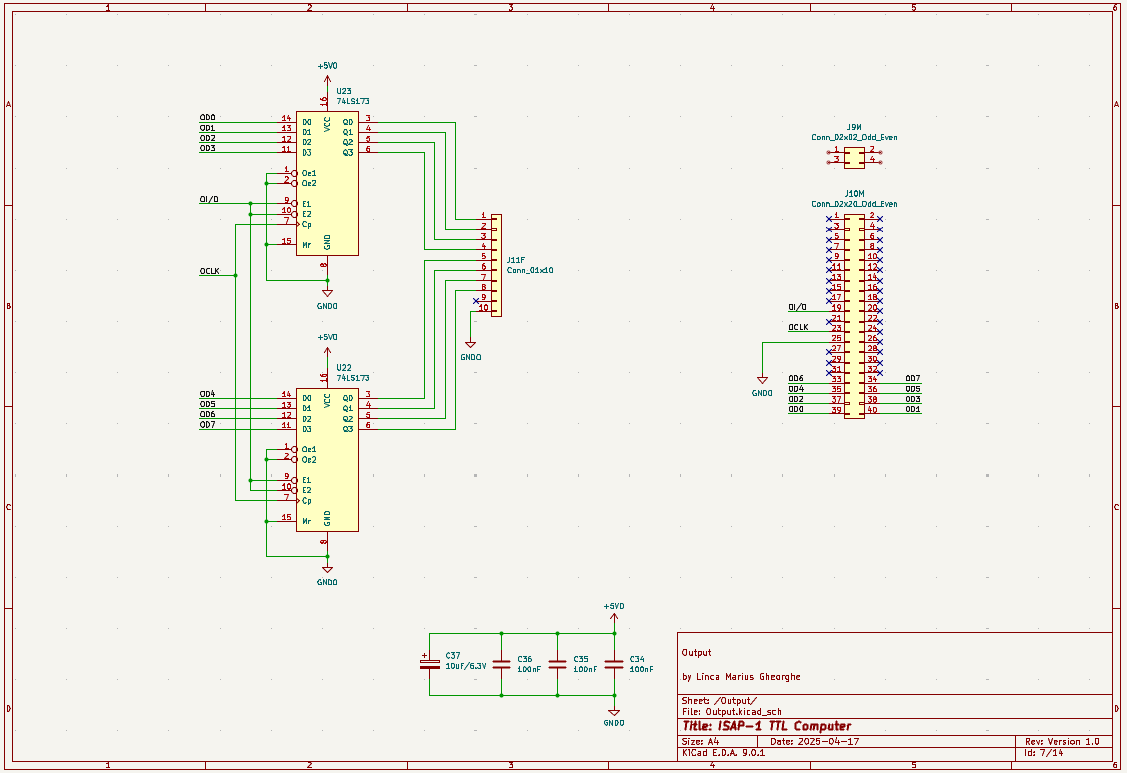
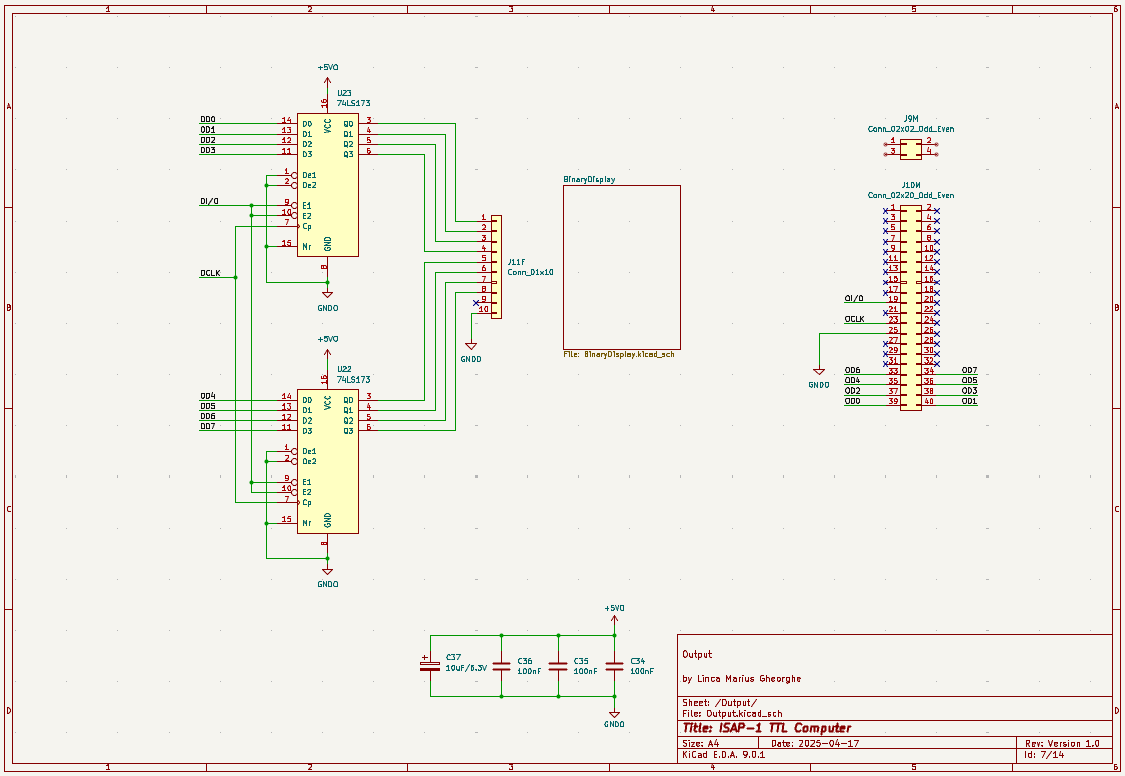
modified:   Pictures/Figure14.png

diff --git a/README.md b/README.md
@@ -227,10 +227,14 @@ The schematic does not present any other changes compared to the original one.
 
 ![ Figure 14 ](/Pictures/Figure14.png)
 
-### Binary Display
+### Binary Display Schematic
 The Binary Display consists of eight LEDs connected to eight current limiting resistors of 1k ohm each.
 
-The current is limited by resistors for a red LED to the value of (Voh – Vled) / (R + Rint) = (2.4V – 1.8V) / (1000 + 100) = 0.5 / 1100 = 0.5mA (theoretical)
+The current is limited by resistors for a red LED to the value of (Voh – Vled) / (R + Rint) = (2.4V – 1.8V) / (1000 + 100) = 0.5 / 1100 = 0.5mA (theoretical).
+
+This module is designed to be attached as a daughterboard to the Output Device via connector J11.
+
+This way I can replace the Binary Display with a more advanced one without modifying the other modules of the computer.
 
 The schematic does not present any other changes compared to the original one.
 
